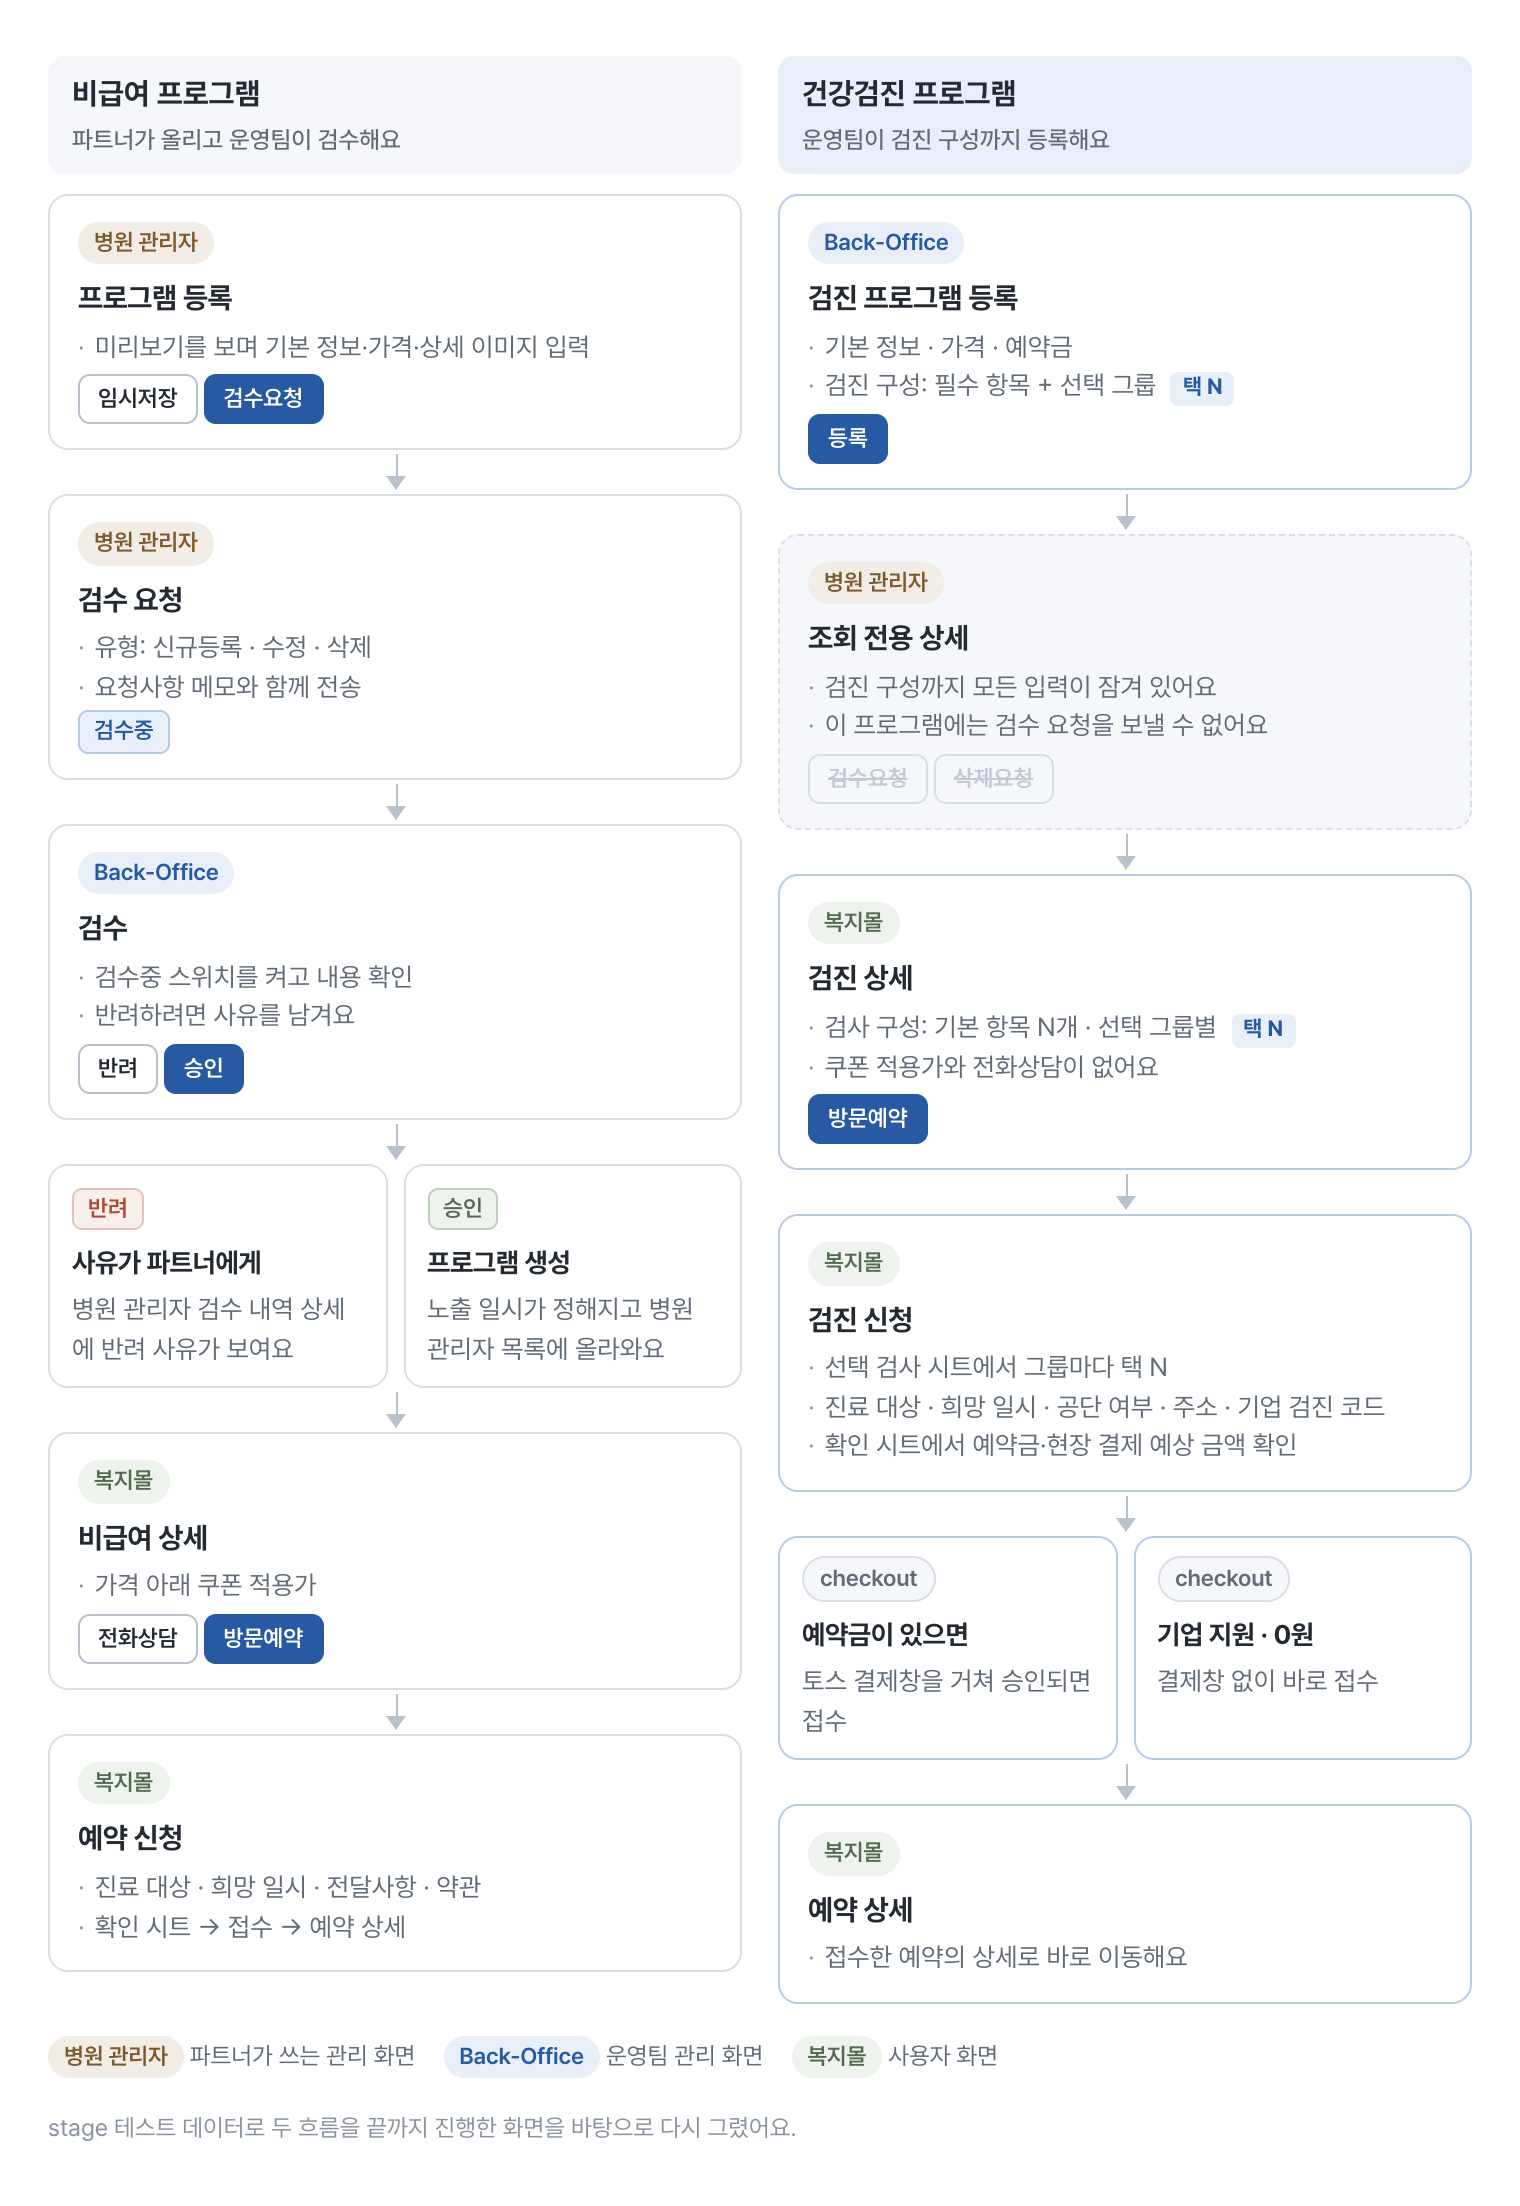
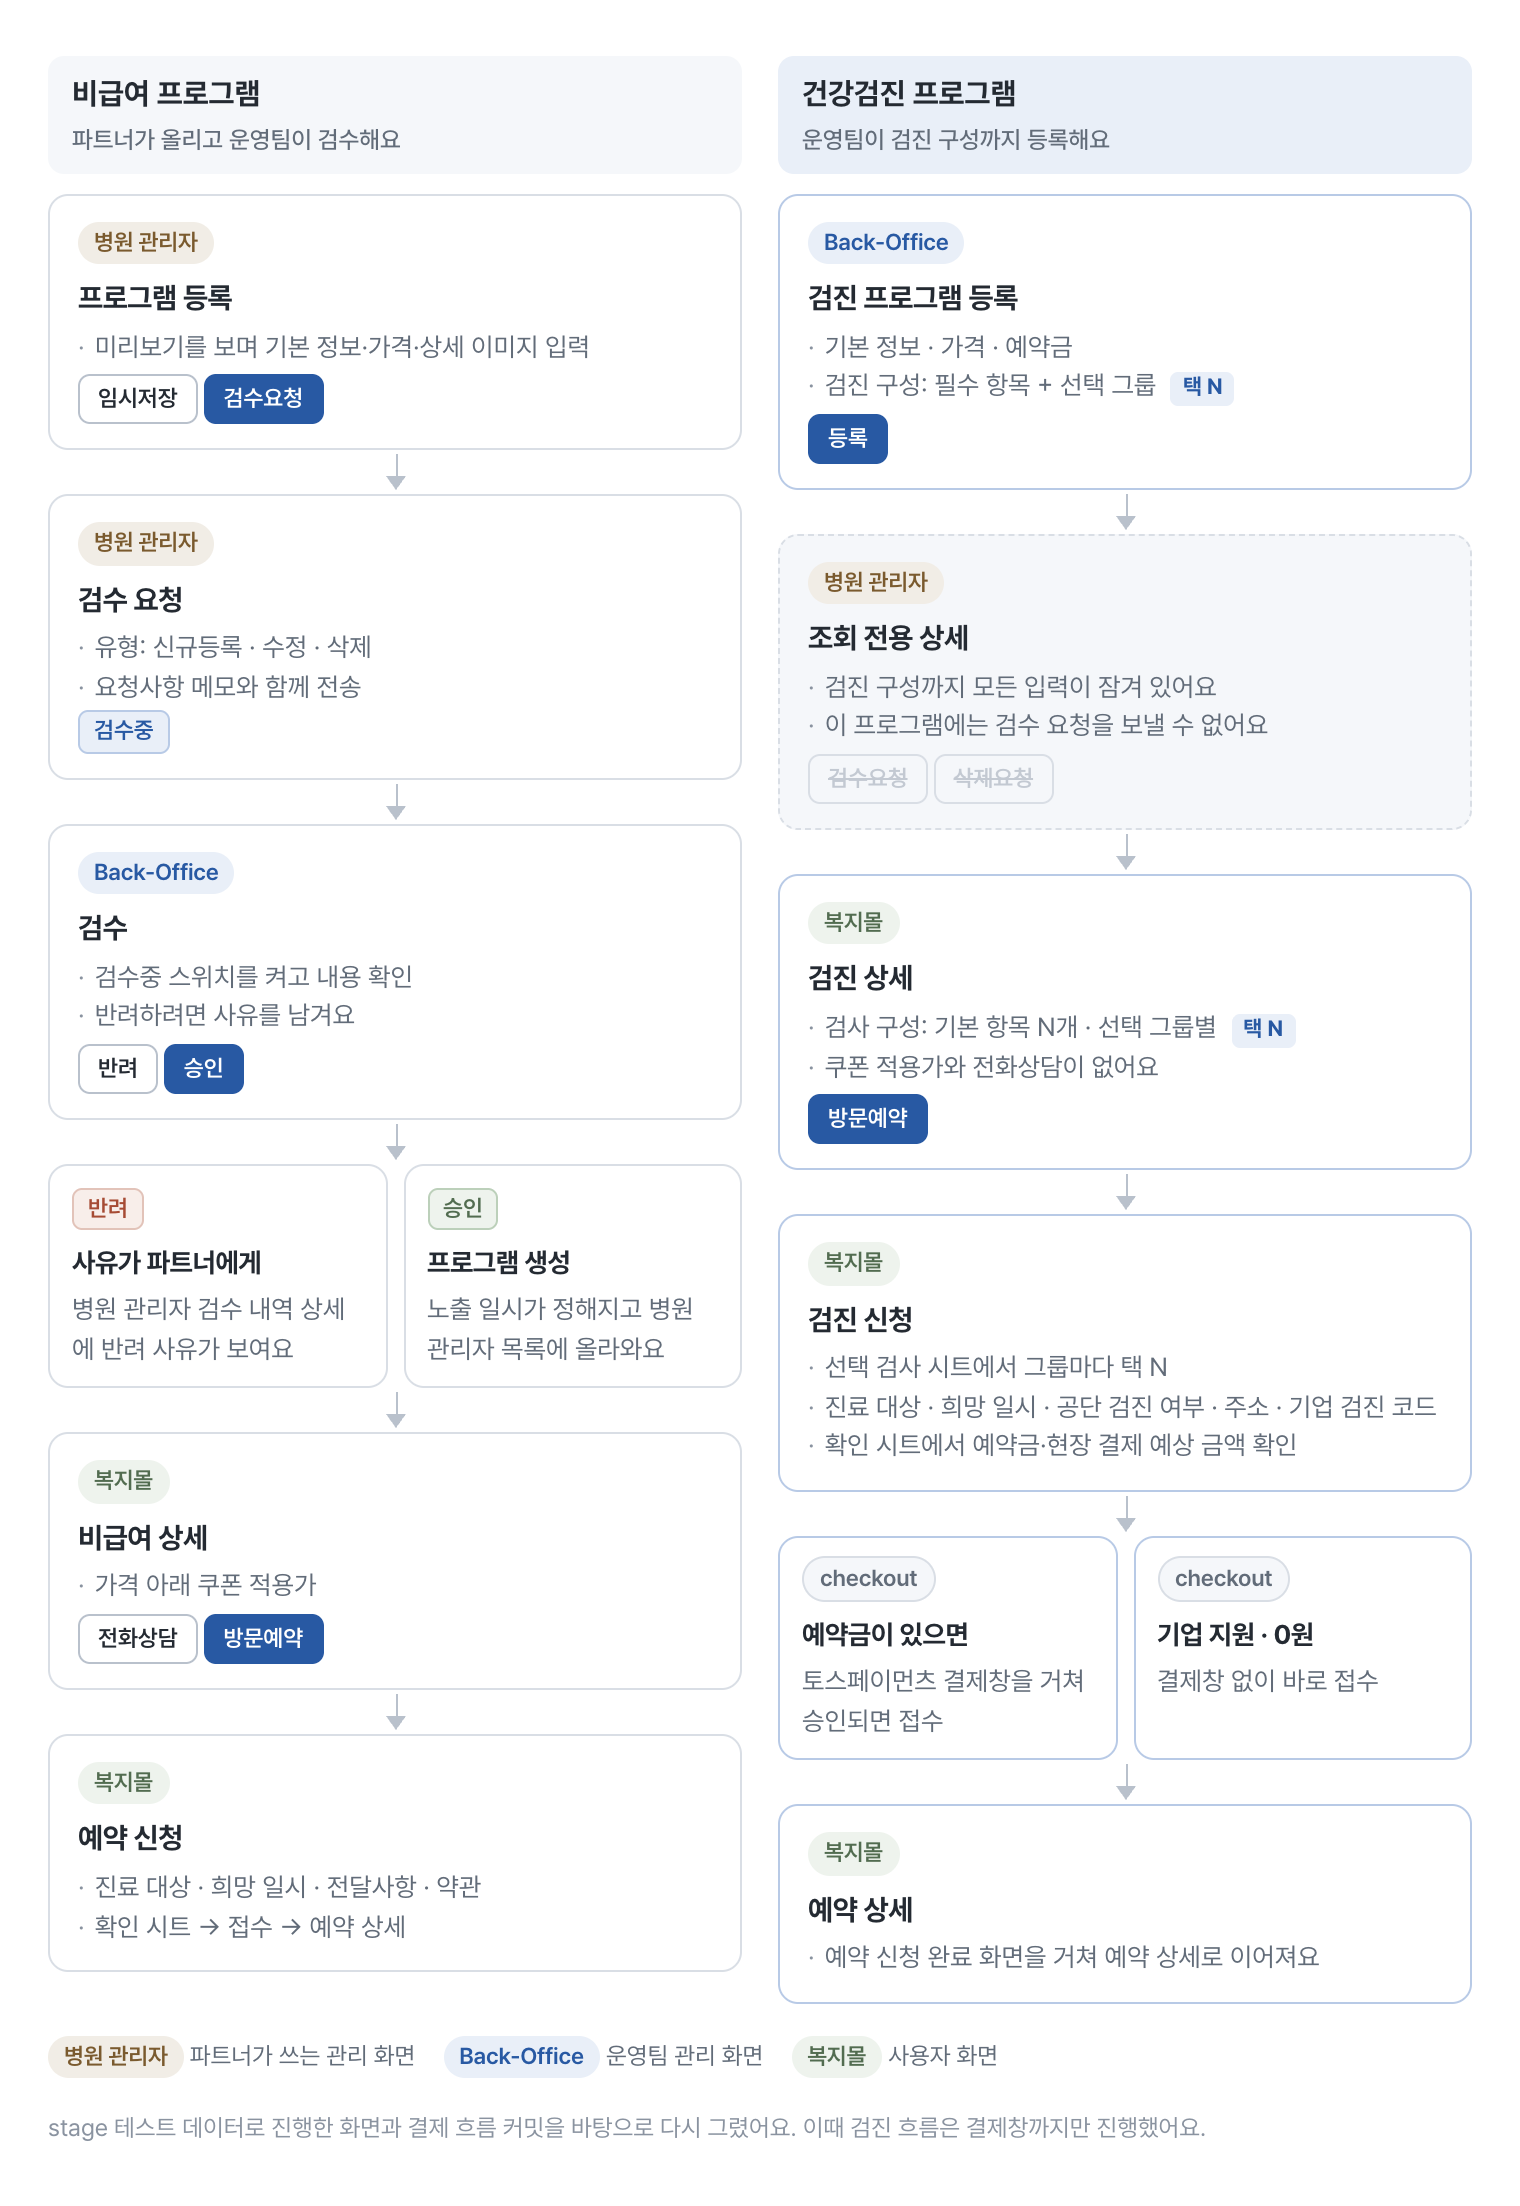
docs(blog): 건강검진 그림의 도착 화면·상세 구획·결제창 명칭·각주를 바로잡는다 (01-structure)

diff --git a/blog/assets/figures/health-check/src/01-structure.html b/blog/assets/figures/health-check/src/01-structure.html
@@ -102,7 +102,7 @@
     <div class="card hl">
       <span class="app mall">복지몰</span>
       <h4>검진 신청</h4>
-      <ul><li>선택 검사 시트에서 그룹마다 택 N</li><li>진료 대상 · 희망 일시 · 공단 여부 · 주소 · 기업 검진 코드</li><li>확인 시트에서 예약금·현장 결제 예상 금액 확인</li></ul>
+      <ul><li>선택 검사 시트에서 그룹마다 택 N</li><li>진료 대상 · 희망 일시 · 공단 검진 여부 · 주소 · 기업 검진 코드</li><li>확인 시트에서 예약금·현장 결제 예상 금액 확인</li></ul>
     </div>
     <div class="arrow-down"></div>
 
@@ -110,7 +110,7 @@
       <div class="card hl">
         <span class="app server">checkout</span>
         <h4>예약금이 있으면</h4>
-        <p>토스 결제창을 거쳐 승인되면 접수</p>
+        <p>토스페이먼츠 결제창을 거쳐 승인되면 접수</p>
       </div>
       <div class="card hl">
         <span class="app server">checkout</span>
@@ -123,7 +123,7 @@
     <div class="card hl">
       <span class="app mall">복지몰</span>
       <h4>예약 상세</h4>
-      <ul><li>접수한 예약의 상세로 바로 이동해요</li></ul>
+      <ul><li>예약 신청 완료 화면을 거쳐 예약 상세로 이어져요</li></ul>
     </div>
   </section>
 </div>
@@ -133,5 +133,5 @@
   <span><span class="app bo">Back-Office</span> 운영팀 관리 화면</span>
   <span><span class="app mall">복지몰</span> 사용자 화면</span>
 </div>
-<p class="foot">stage 테스트 데이터로 두 흐름을 끝까지 진행한 화면을 바탕으로 다시 그렸어요.</p>
+<p class="foot">stage 테스트 데이터로 진행한 화면과 결제 흐름 커밋을 바탕으로 다시 그렸어요. 이때 검진 흐름은 결제창까지만 진행했어요.</p>
 </body></html>
